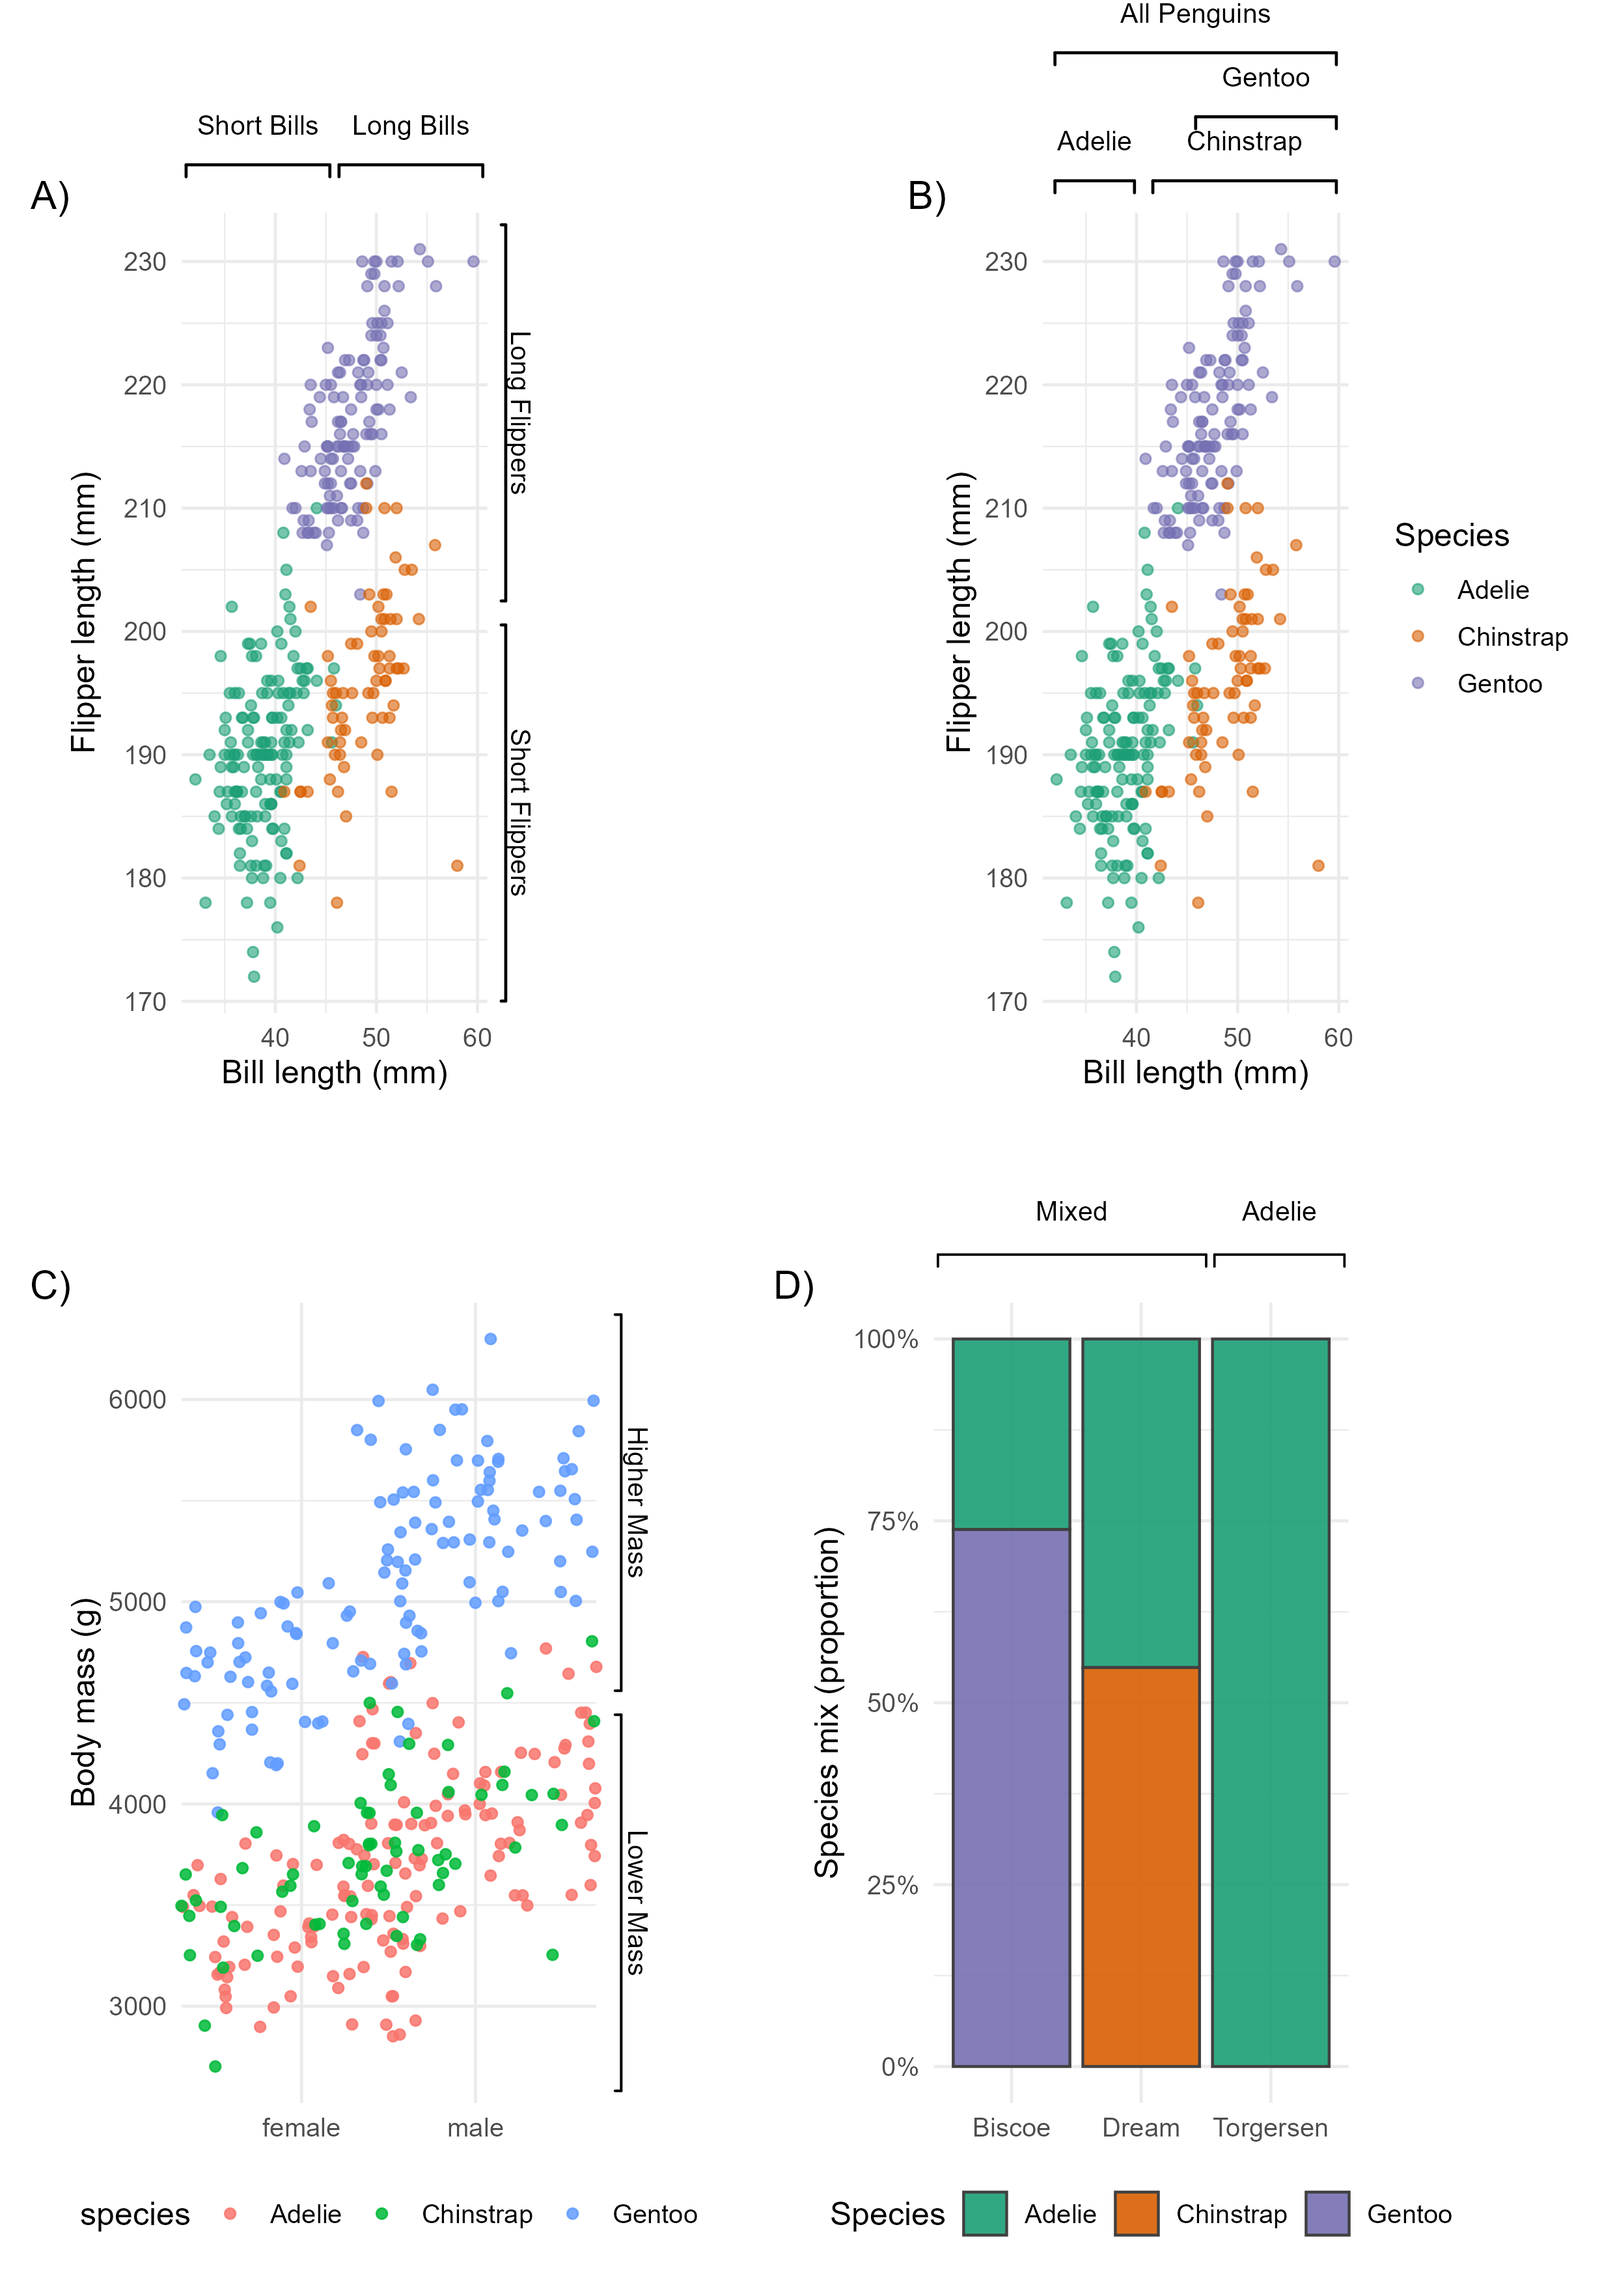
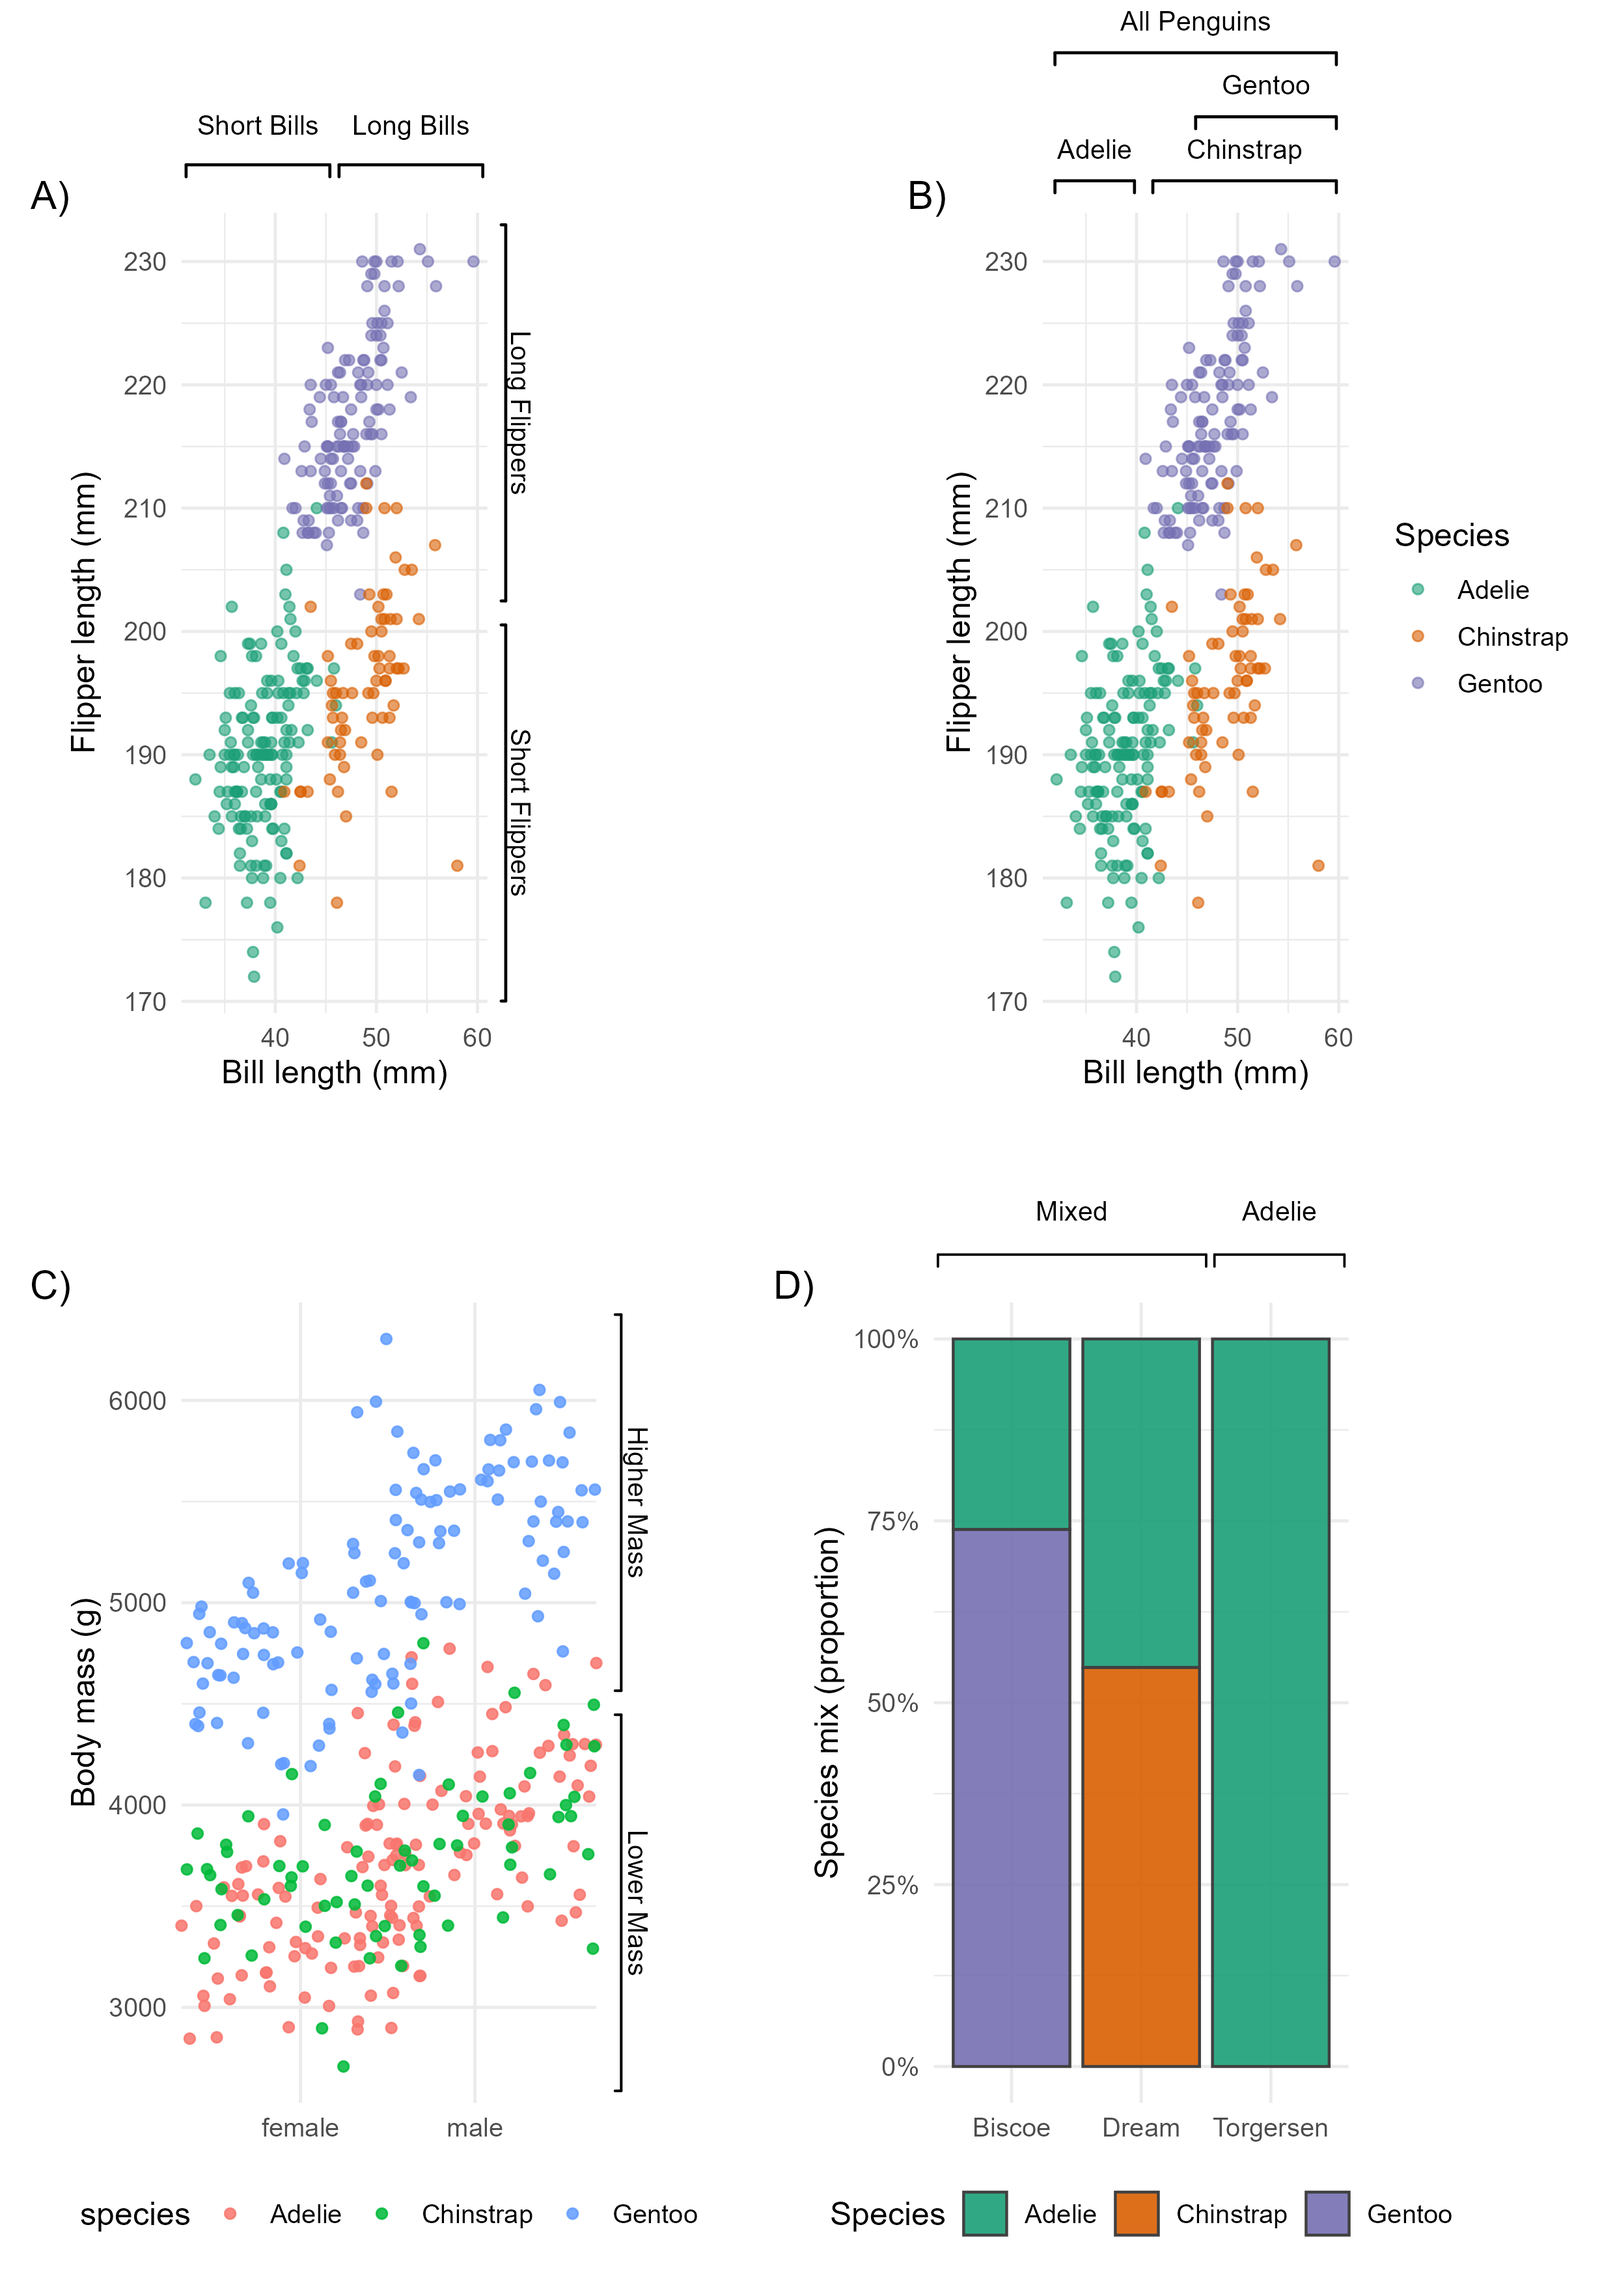
added significance plotting

Changed region(s): [[0.0931, 0.6216, 0.3724, 0.9013], [0.7138, 0.0, 0.8069, 0.0932], [0.6518, 0.0622, 0.6828, 0.0932]]

diff --git a/README.md b/README.md
@@ -115,3 +115,22 @@ p4 <- add_by_groups(
 )
 ```
 ![Plot 4](R/plot/p4.png)
+
+### **Example 5 — Using this for significance plotting**  
+- **Brackets**:  
+     - Two horizontal top bands (e.g., “**”, “All groups”) spanning different x-ranges over the categories
+
+```r
+
+p5 <- add_brackets_simple(
+  p, side = "top", coord = "data",
+  labels = c("**", "All groups"),
+  start  = c(1.0, 0.5),
+  end    = c(2.0, 3.5),
+  pos    = c(8.2, 10),
+  label_offset = c(0.03, 0.04),
+  label_size   = c(10, 14),
+  fontface     = c("bold", "plain")) 
+
+```
+![Plot 5](R/plot/sig.png)
